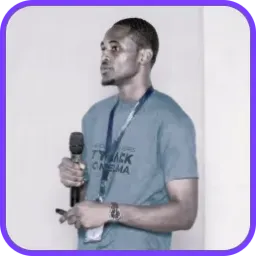
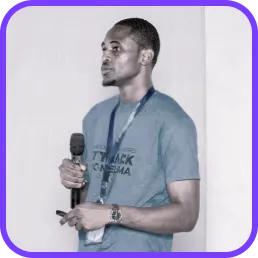
Update profile image import and remove hardcoded path in About component
- Import profile image directly from optimized assets
- Remove hardcoded profile image path from content object
- Use local imported profile image in template

diff --git a/src/components/About.vue b/src/components/About.vue
@@ -47,7 +47,7 @@
             <div class="relative mx-auto md:mx-0 w-40 sm:w-48 md:w-48">
               <div class="aspect-square rounded-2xl overflow-hidden shadow-xl transform group-hover:scale-105 transition-all duration-500">
                 <img 
-                  :src="content.profileImage" 
+                  :src="profileImage" 
                   alt="Profile"
                   class="w-full h-full object-cover"
                   width="192"
@@ -359,6 +359,7 @@ import { UserIcon, BriefcaseIcon, CodeIcon, GraduationCapIcon, AwardIcon, Camera
 import manTechIcon from '../assets/optimized/man-tech.webp'
 import flutterIcon from '../assets/optimized/flutter.webp'
 import laravelIcon from '../assets/optimized/laravel.webp'
+import profileImage from '../assets/optimized/profile.webp'
 
 // Import des images pour la galerie
 import image1 from '../assets/optimized/1.webp'
@@ -602,7 +603,6 @@ const content = {
     clients: 15,
     certifications: 8
   },
-  profileImage: '/images/profile.webp',  // Déplacé vers le dossier public
   organizationsTitle: {
     fr: 'Organisations',
     en: 'Organizations'
